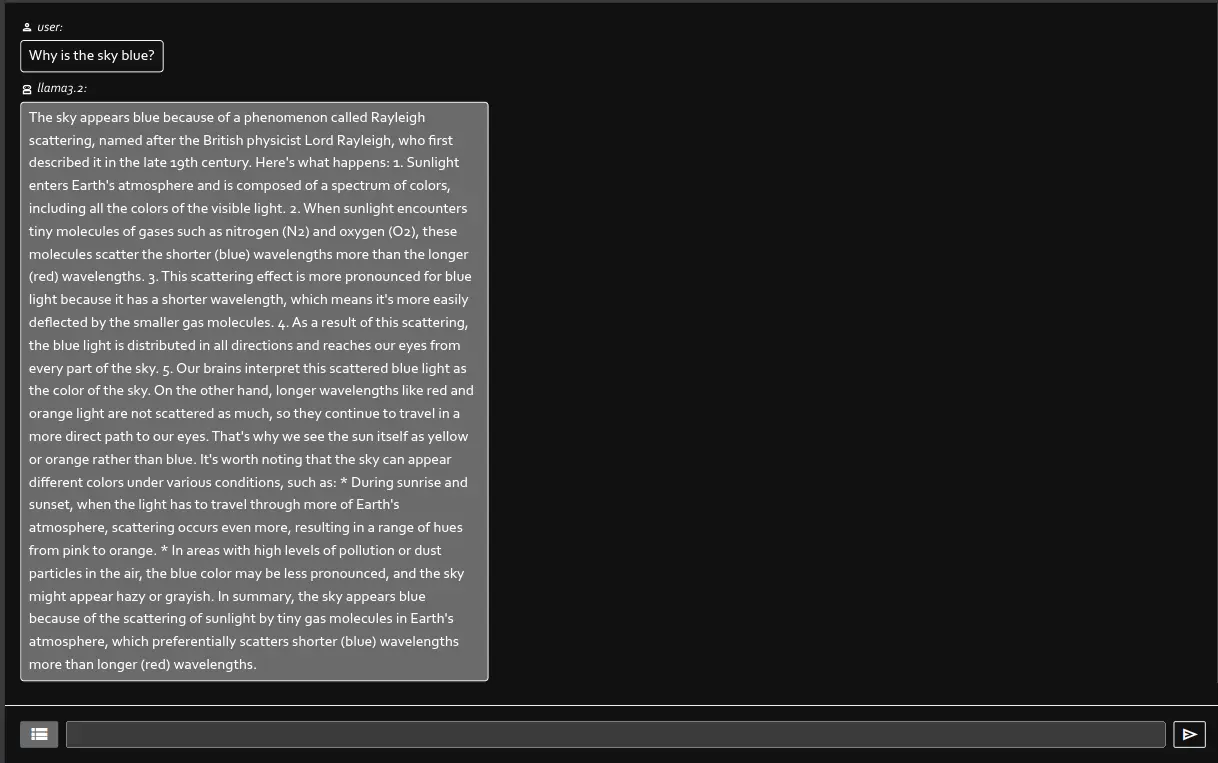
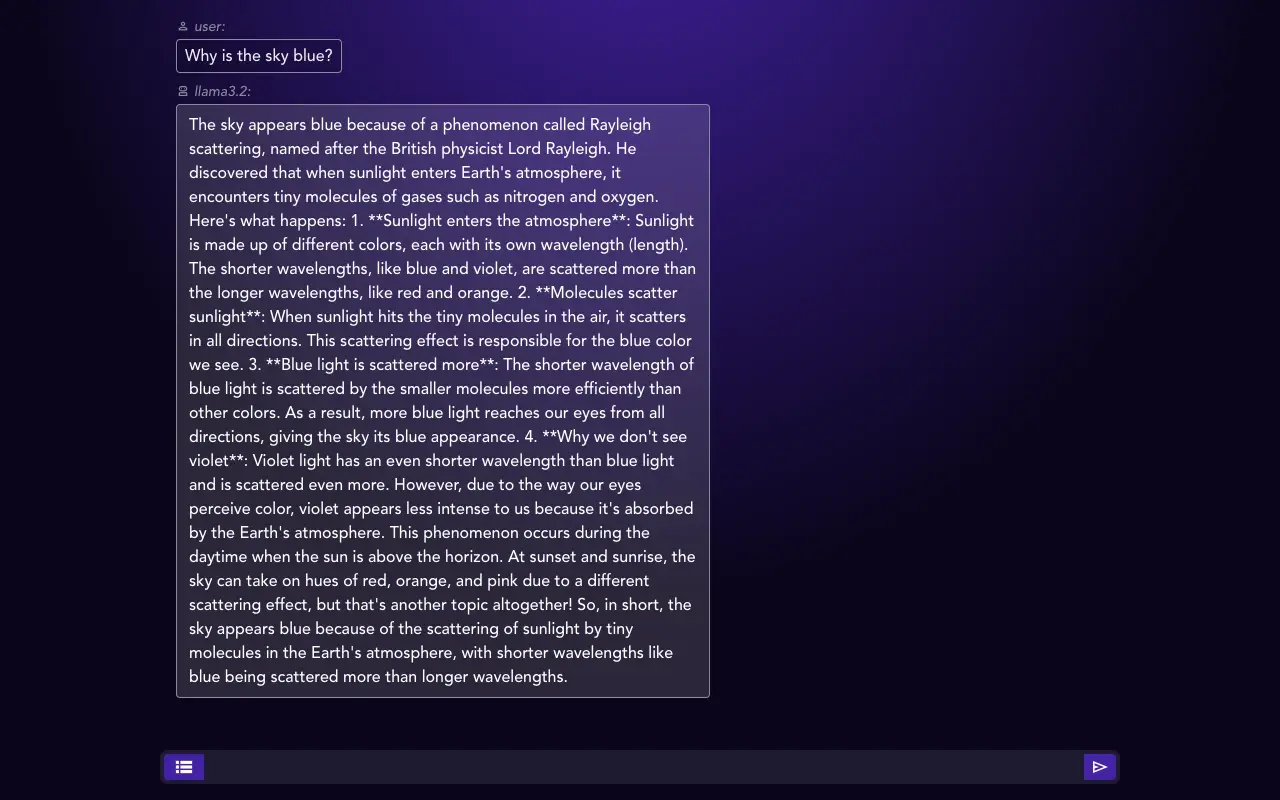
Improved Web server & implemented slight visual redesign

diff --git a/style.css b/style.css
@@ -1,9 +1,17 @@
+:root {
+	--primary: #4322A5;
+	--background: #0A051B;
+	--cover: #1F1A2F;
+	--color: #8E8B95;
+}
+
 @font-face {
 	font-family: "icon";
 	font-style: normal;
 	font-weight: 100 700;
 	src: url("/icons.woff2") format("woff2");
 }
+
 .icon {
 	font-family: "icon";
 	font-weight: normal;
@@ -46,6 +54,9 @@ body {
 	flex-direction: column;
 	gap: 1rem;
 	height: 100dvh;
+	background: var(--background) radial-gradient(closest-side, var(--primary) 0.1%, var(--background) 99.9%) no-repeat 0 -125vh;
+	background-size: 100% 200%;
+	color: var(--color);
 	overflow: hidden;
 }
 
@@ -57,10 +68,12 @@ body {
 	flex-grow: 1;
 	overflow-y: auto;
 	position: relative;
+	width: min(60rem, 100%);
+	margin-inline: auto;
 }
 
 .responses:empty::after {
-	content: 'start chatting';
+	content: 'Ollama Frontend';
 	position: absolute;
 	inset: 0;
 	display: grid;
@@ -82,13 +95,14 @@ body {
 }
 
 .response .message {
-	background: ButtonFace;
-	color: ButtonText;
-	border: 1px solid ButtonBorder;
+	background: #fff2;
+	color: #fff;
+	border: 1px solid var(--color);
 	border-radius: 0.25rem;
-	padding: 0.25rem 0.5rem;
+	padding: 0.5rem 0.75rem;
 	width: fit-content;
 	max-width: 60ch;
+	backdrop-filter: blur(4px);
 }
 
 .request .author {
@@ -106,37 +120,50 @@ body {
 }
 
 .request .message {
-	border: 1px solid ButtonBorder;
-	border-radius: 0.25rem;
-	padding: 0.25rem 0.5rem;
-	width: fit-content;
-	max-width: 60ch;
+	border: 1px solid var(--color);
+  border-radius: 0.25rem;
+  padding: 0.25rem 0.5rem;
+  background: #0002;
+  width: fit-content;
+  color: #eee;
+  max-width: 60ch;
 }
 
 .user {
 	display: flex;
-	gap: 0.5rem;
-	padding: 1rem;
-	border-top: 1px solid ButtonBorder;
+	padding-inline: 0 .25rem;
+	width: min(60rem, 100%);
+	margin-inline: auto;
+	margin-bottom: 1rem;
+	border-radius: 0.5rem;
+	background: var(--cover);
+	backdrop-filter: blur(4px);
 }
 
 .user input[type="text"] {
 	flex-grow: 1;
+	background: var(--cover);
+	border: unset;
+	padding: 0.5rem;
+
+	&:focus-within {
+		outline: unset;
+	}
 }
 
 .user .input-wrapper {
 	display: flex;
 	align-items: center;
-	border: 1px solid buttonBorder;
 	border-radius: 0.125rem;
 }
 
 .user input[type="submit"] {
 	appearance: none;
 	font-family: 'icon';
-	background: transparent;
+	background: var(--primary);
 	border: unset;
 	font-size: 1.25rem;
+	border-radius: 0 0.25rem 0.25rem 0;
 }
 
 .user input[type="submit"]:disabled {
@@ -147,6 +174,7 @@ body {
 	display: grid;
 	place-items: center;
 	position: relative;
+	margin: 0.25rem;
 }
 
 .models::after {
@@ -156,11 +184,13 @@ body {
 	inset: 0;
 	display: grid;
 	place-items: center;
-	background: buttonFace;
+	background: var(--primary);
+	color: #fff;
 	font-size: 1.25rem;
 	border-radius: 0.125rem;
 	line-height: 0;
 	pointer-events: none;
+	border-radius: 0.25rem 0 0 0.25rem;
 }
 
 .models select {

diff --git a/index.js b/index.js
@@ -1,17 +1,13 @@
 const BASE_PATH = ".";
 const PORT = 3000;
 
-Bun.serve({
+const server = Bun.serve({
   port: PORT,
   async fetch(req) {
-    let filePath = BASE_PATH + new URL(req.url).pathname;
-		if (filePath === './') filePath = './index.html';
-    const file = Bun.file(filePath);
-    return new Response(file);
-  },
-  error() {
-    return new Response(null, { status: 404 });
+    const path = new URL(req.url).pathname;
+    if (path === "/") return new Response(Bun.file(`${BASE_PATH}/index.html`));
+    else { return new Response(Bun.file(`${BASE_PATH}${path}`)); }
   },
 });
 
-console.log(`Server running @ http://localhost:${PORT}`);
+console.log(`Listening on ${server.url}`);
